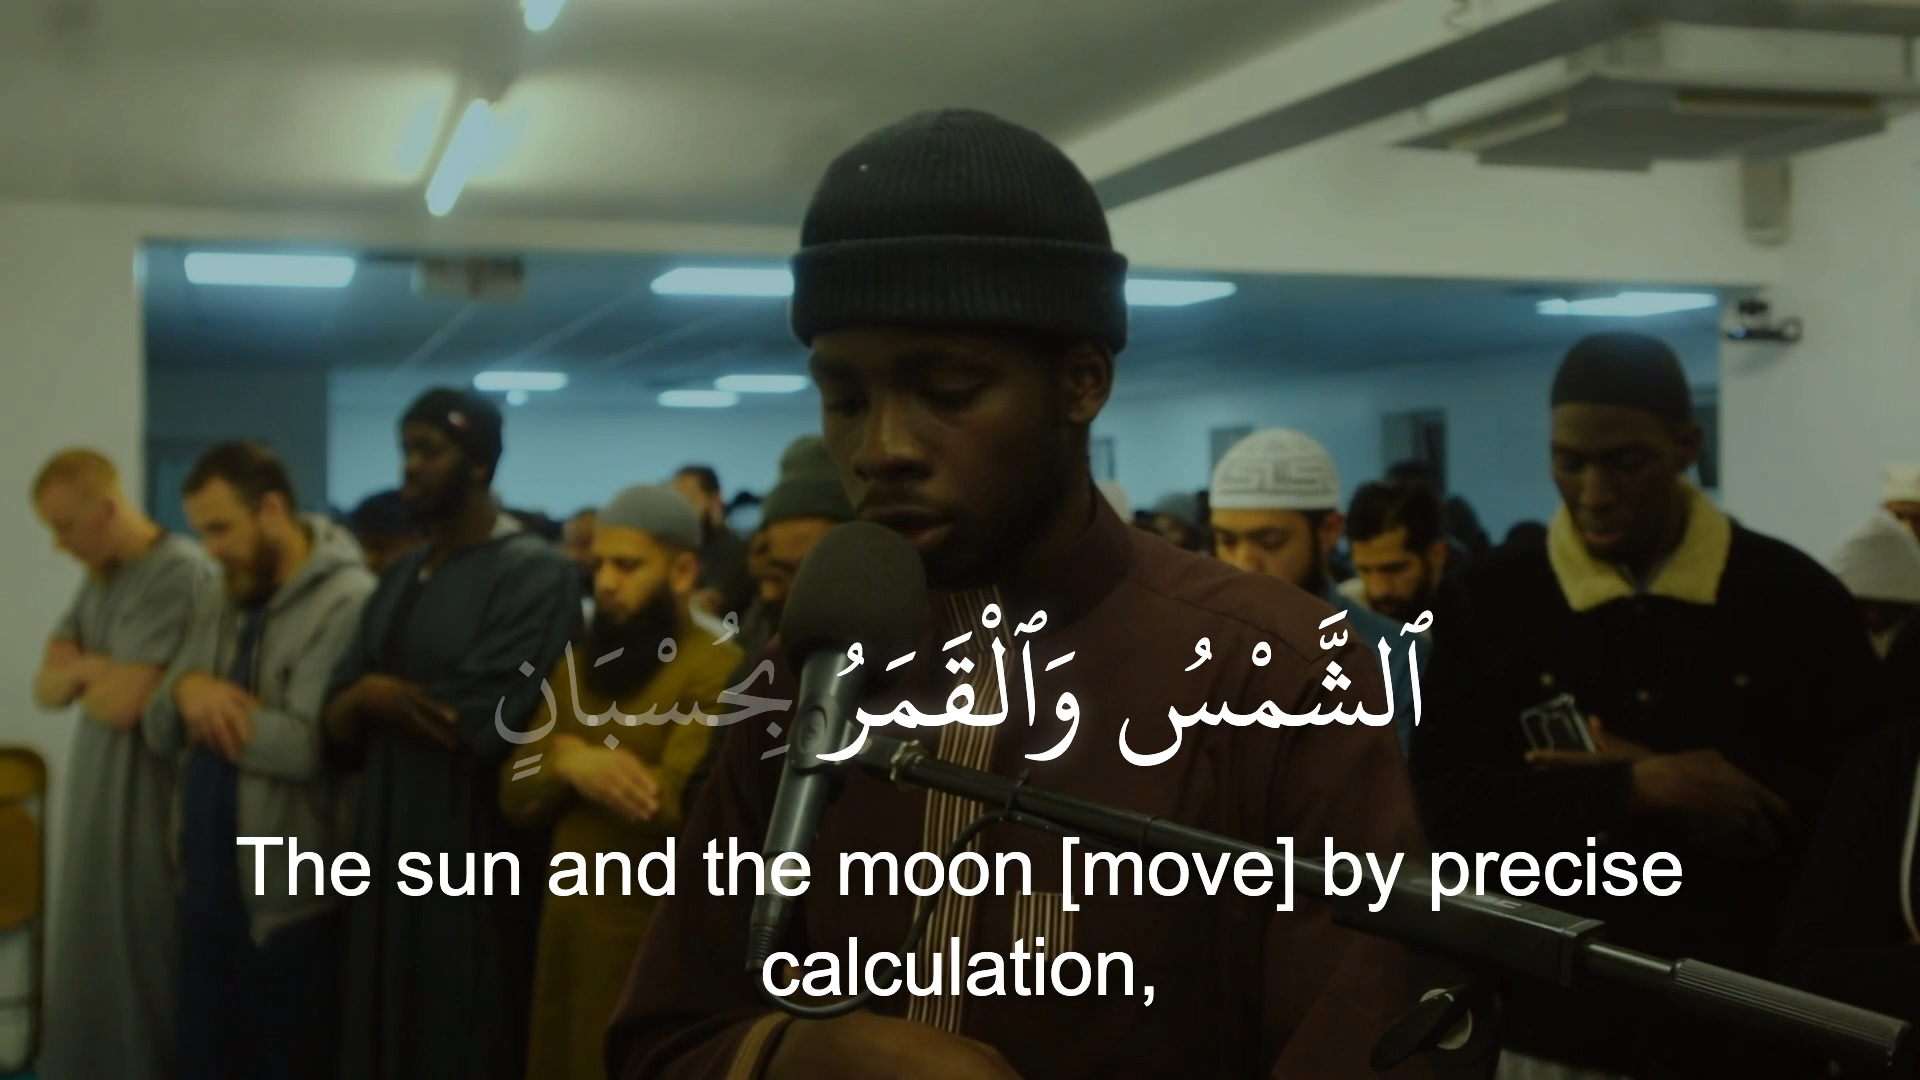
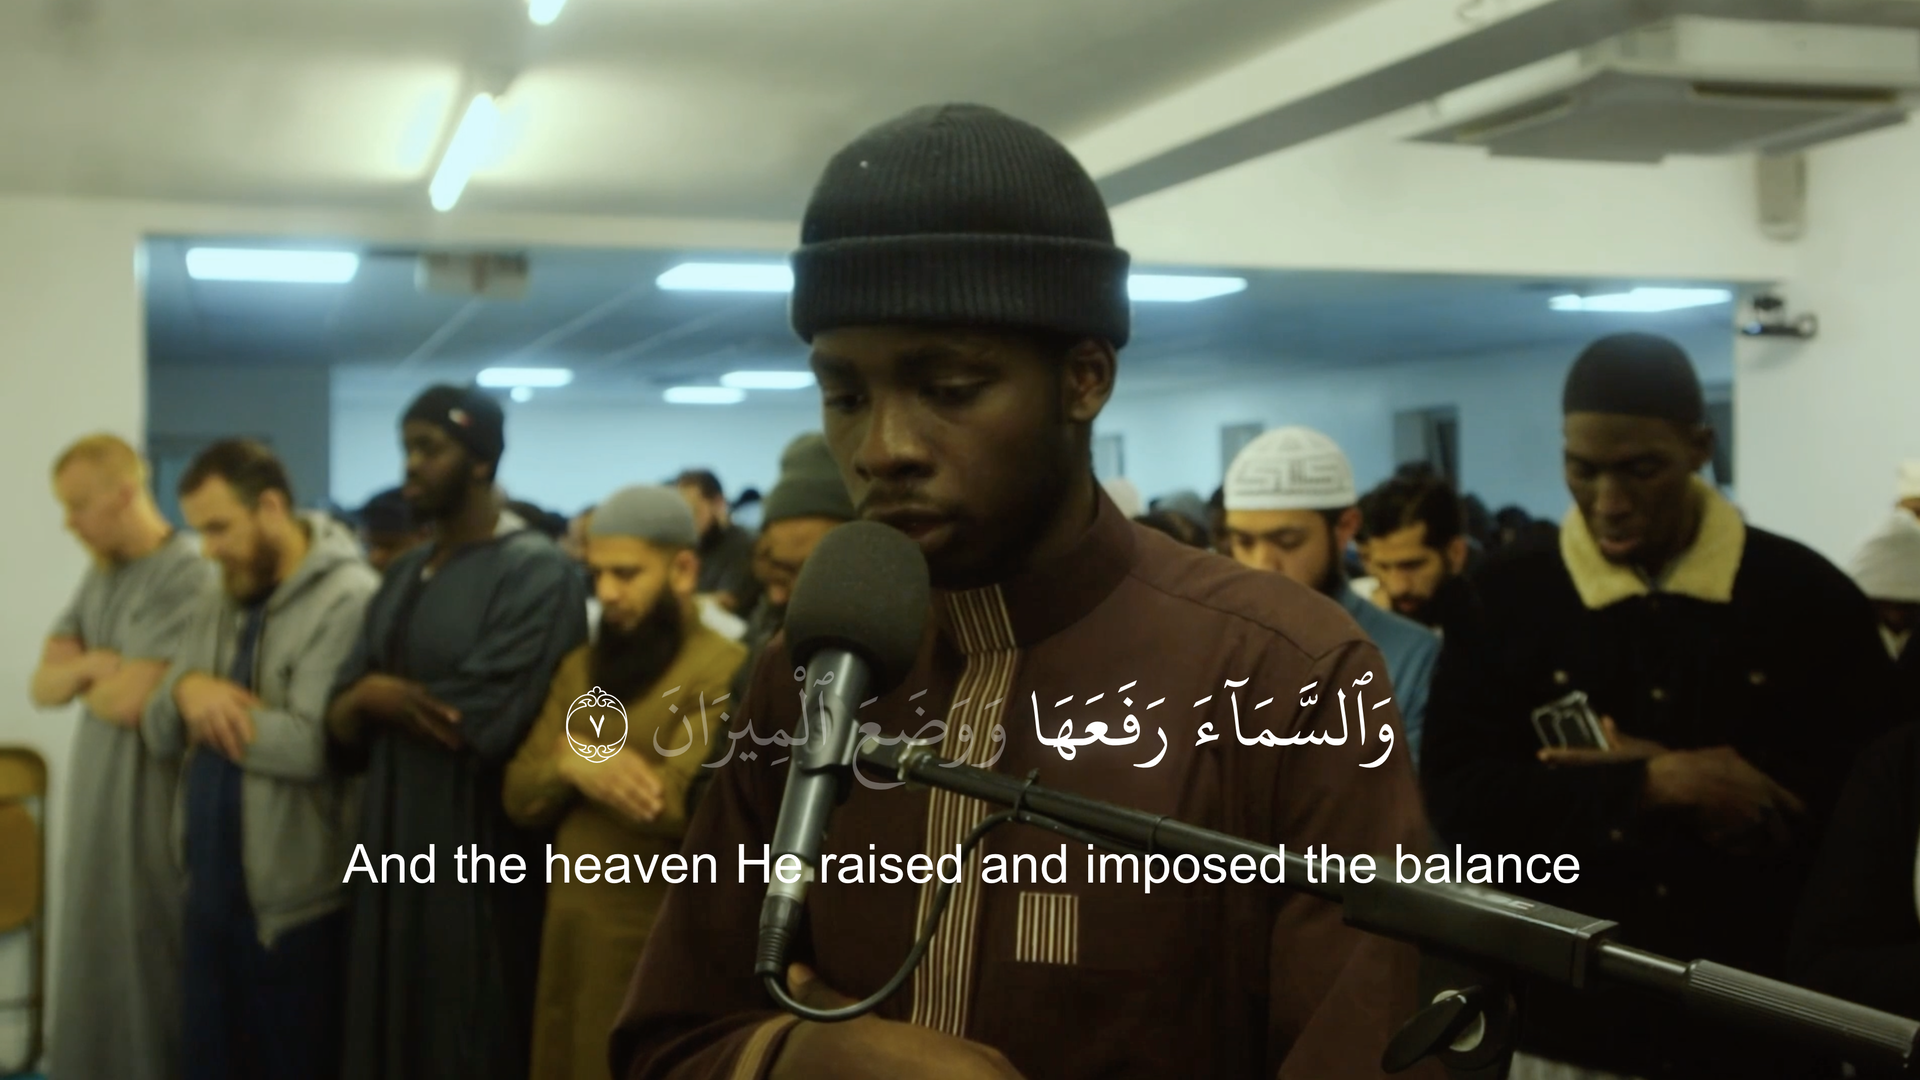
feat: default verse numbers and refresh demo images

diff --git a/tests/pre-generation-caption-controls.test.ts b/tests/pre-generation-caption-controls.test.ts
@@ -36,7 +36,7 @@ test("Layout is the default and the five pre-generation sections stay ordered", 
   assert.match(quickCreate, /activeSection === "toggles"/);
 });
 
-test("presentation defaults are complete, clean, and preserve the existing create choices", () => {
+test("new Create projects and presentation reset default verse numbers on", () => {
   const value = defaultCaptionPresentationSettings();
   assert.equal(value.projectFormat.preset, "vertical");
   assert.equal(value.positioning.maxWidthPercent, 0.9);
@@ -50,7 +50,7 @@ test("presentation defaults are complete, clean, and preserve the existing creat
   assert.equal(value.typography.translationTextColor, "#ffffff");
   assert.equal(value.typography.translationOpacity, 1);
   assert.equal(value.typography.translationMatchHighlightColor, false);
-  assert.equal(value.showVerseNumber, false);
+  assert.equal(value.showVerseNumber, true);
   assert.deepEqual(value.captionEffects, DEFAULT_CAPTION_EFFECTS);
   assert.equal(value.transitionSettings.fadeInMs, 225);
   assert.equal(value.transitionSettings.type, "blur-fade");
@@ -144,6 +144,14 @@ test("Generate receives the exact preview presentation fields and all render pat
   assert.match(composedPreview, /positioning=\{project\.positioning\}/);
   assert.match(exportConfig, /positioning: \{ \.\.\.input\.positioning \}/);
   assert.match(offlineRenderer, /drawExportCaptions\(context, request,/);
+});
+
+test("Create, editor, Watch, and export consume the same verse-number field", () => {
+  assert.match(quickCreate, /const \{ positioning, typography, transitionSettings, captionEffects, showVerseNumber \} = presentation/);
+  assert.match(editorClient, /DEFAULT_CAPTION_PRESENTATION\.showVerseNumber/);
+  assert.match(editorClient, /showVerseNumber=\{showVerseNumber\}/);
+  assert.match(composedPreview, /showVerseNumber=\{project\.showVerseNumber\}/);
+  assert.match(exportConfig, /showVerseNumber: input\.showVerseNumber/);
 });
 
 test("the advanced editor keeps its original navigation and does not receive pre-generation panels", () => {

diff --git a/tests/landing-routing.test.ts b/tests/landing-routing.test.ts
@@ -87,8 +87,8 @@ test("landing uses the optimized first-party QuranCaptions demo assets without i
 
   assert.match(landing, /import Image from "next\/image"/);
   assert.match(landing, /src="\/landing\/demo\/hero-editor\.png"/);
-  assert.match(landing, /width=\{1200\} height=\{886\}/);
-  assert.match(landing, /QuranCaptions editor showing Surah Ar-Rahman captions and ayah timeline/);
+  assert.match(landing, /width=\{2048\} height=\{1182\}/);
+  assert.match(landing, /QuranCaptions editor with Arabic captions, translation and ayah timeline/);
   assert.doesNotMatch(imports, /recognition|fastconformer|EditorWorkspace/i);
   for (const asset of requiredAssets) {
     const image = readFileSync(fromRoot("public/landing/demo", asset));
@@ -106,6 +106,7 @@ test("showcase uses the four final first-party vertical captures", () => {
   assert.deepEqual(LANDING_SHOWCASE.map((example) => example.description), ["Arabic-first with a clean, distraction-free layout.", "Arabic and English composed together in one frame.", "Follow the recitation word by word with read-so-far color.", "Polished Arabic focus for social-first Quran videos."]);
   assert.deepEqual(LANDING_SHOWCASE.map((example) => example.src), ["/landing/demo/style-minimal.png", "/landing/demo/style-translation.png", "/landing/demo/style-word-highlight.png", "/landing/demo/style-cinematic.png"]);
   assert.ok(LANDING_SHOWCASE.every((example) => example.alt.length > 20));
+  assert.match(LANDING_SHOWCASE.find((example) => example.id === "cinematic")?.alt ?? "", /decorative ayah number/);
   assert.doesNotMatch(landing, /A caption treatment made for Quran recitation\./);
   assert.match(globals, /\.landing-showcase-grid \{ grid-template-columns:repeat\(4,minmax\(0,1fr\)\);/);
   assert.match(globals, /\.landing-showcase-frame > img \{ object-fit:cover; \}/);

diff --git a/src/lib/landing/showcase-assets.ts b/src/lib/landing/showcase-assets.ts
@@ -2,5 +2,5 @@ export const LANDING_SHOWCASE = [
   { id: "minimal", title: "Minimal", description: "Arabic-first with a clean, distraction-free layout.", chip: "Arabic only", src: "/landing/demo/style-minimal.png", alt: "Minimal Quran caption style with Arabic text over vertical recitation footage" },
   { id: "translation", title: "Translation", description: "Arabic and English composed together in one frame.", chip: "Arabic + English", src: "/landing/demo/style-translation.png", alt: "Translation style with Arabic captions and English translation over vertical recitation footage" },
   { id: "highlight", title: "Word Highlight", description: "Follow the recitation word by word with read-so-far color.", chip: "Read so far", src: "/landing/demo/style-word-highlight.png", alt: "Word Highlight style showing read-so-far Arabic caption color" },
-  { id: "cinematic", title: "Cinematic", description: "Polished Arabic focus for social-first Quran videos.", chip: "Arabic focus", src: "/landing/demo/style-cinematic.png", alt: "Cinematic Quran caption style over vertical recitation footage" },
+  { id: "cinematic", title: "Cinematic", description: "Polished Arabic focus for social-first Quran videos.", chip: "Arabic focus", src: "/landing/demo/style-cinematic.png", alt: "Quran recitation with cinematic Arabic caption and decorative ayah number" },
 ] as const;

diff --git a/tests/project-storage.test.ts b/tests/project-storage.test.ts
@@ -85,10 +85,11 @@ test("legacy seconds alignment payloads migrate to exact milliseconds once", () 
   assert.throws(() => validateSavedProject({ ...migrated, verseAlignments: [{ ...migrated.verseAlignments[0], invalid: true }] }), /unrecognized|invalid/i);
 });
 
-test("missing legacy verse-number state receives the new default without overwriting false", () => {
+test("legacy verse-number hydration defaults missing state on and preserves explicit off and on", () => {
   const legacy = { ...project(), showVerseNumber: undefined } as unknown as SavedProject;
   assert.equal(loadSavedProject(legacy).showVerseNumber, true);
   assert.equal(loadSavedProject(project({ showVerseNumber: false })).showVerseNumber, false);
+  assert.equal(loadSavedProject(project({ showVerseNumber: true })).showVerseNumber, true);
 });
 
 test("playback rate defaults legacy projects to 1x and persists supported selections", async () => {

diff --git a/src/components/landing-page.tsx b/src/components/landing-page.tsx
@@ -43,7 +43,7 @@ function FinishedVideoExample({ example }: { example: (typeof LANDING_SHOWCASE)[
 }
 
 function EditorScreenshot({ priority = false }: { priority?: boolean }) {
-  return <Image src="/landing/demo/hero-editor.png" alt="QuranCaptions editor showing Surah Ar-Rahman captions and ayah timeline" width={1200} height={886} priority={priority} sizes="(max-width: 600px) calc(100vw - 32px), (max-width: 1200px) calc(100vw - 48px), 1200px" />;
+  return <Image src="/landing/demo/hero-editor.png" alt="QuranCaptions editor with Arabic captions, translation and ayah timeline" width={2048} height={1182} priority={priority} sizes="(max-width: 600px) calc(100vw - 32px), (max-width: 1200px) calc(100vw - 48px), 1200px" />;
 }
 
 export default function LandingPage({ authenticated }: LandingPageProps) {

diff --git a/src/lib/editor/presentation-settings.ts b/src/lib/editor/presentation-settings.ts
@@ -1,6 +1,7 @@
 import {
   DEFAULT_CAPTION_BACKGROUND,
   DEFAULT_CAPTION_EFFECTS,
+  DEFAULT_CAPTION_PRESENTATION,
   DEFAULT_TRANSITION_SETTINGS,
   DEFAULT_TYPOGRAPHY,
   clampCaptionPositioning,
@@ -38,9 +39,7 @@ export function defaultCaptionPresentationSettings(format: ProjectFormat = DEFAU
     captionBackground: { ...DEFAULT_CAPTION_BACKGROUND },
     transitionSettings: { ...DEFAULT_TRANSITION_SETTINGS },
     captionEffects: { ...DEFAULT_CAPTION_EFFECTS },
-    // Quick Create historically starts without inline ayah markers. The
-    // editor's independent new-project default remains unchanged.
-    showVerseNumber: false,
+    showVerseNumber: DEFAULT_CAPTION_PRESENTATION.showVerseNumber,
   };
 }
 

diff --git a/src/lib/schemas/project.ts b/src/lib/schemas/project.ts
@@ -264,7 +264,7 @@ export const ProjectSchema = z.strictObject({
   captionEffects: CaptionEffectsSchema.default({ videoDimLevel: 0 }),
   /** Presentation/export rate. Canonical caption and word timings remain source time. */
   playbackRate: z.union([z.literal(0.5), z.literal(0.75), z.literal(1), z.literal(1.25), z.literal(1.5), z.literal(2)]).default(1),
-  showVerseNumber: z.boolean().default(false),
+  showVerseNumber: z.boolean().default(true),
   createdAt: z.string().min(1),
   updatedAt: z.string().min(1),
 });

diff --git a/docs/STATUS.md b/docs/STATUS.md
@@ -1,5 +1,21 @@
 # Status
 
+## Current milestone: Default verse numbers and refreshed homepage captures
+
+Complete in implementation and validation:
+
+- Unified new-project, Create, reset, schema, and missing-legacy behavior on
+  the existing `showVerseNumber` presentation field with verse numbers on by
+  default. Explicitly saved off/on choices continue to hydrate unchanged and
+  the same field continues through editor, Watch, and export.
+- Replaced the primary editor, matching before/after, and Cinematic homepage
+  stills with the supplied QuranCaptions captures. The Cinematic card uses a
+  centered 9:16 crop that keeps the reciter, Arabic caption, translation, and
+  decorative ayah number visible; the other three style cards are unchanged.
+- Preserved the Ibrahim Al Gambi CC BY attribution and the responsive Next.js
+  image treatment. No recognition, timing, ingestion, alignment, export, or
+  resize-control architecture changed.
+
 ## Current milestone: Fragmented MP4 duration authority
 
 Complete in implementation and media-preparation validation:
